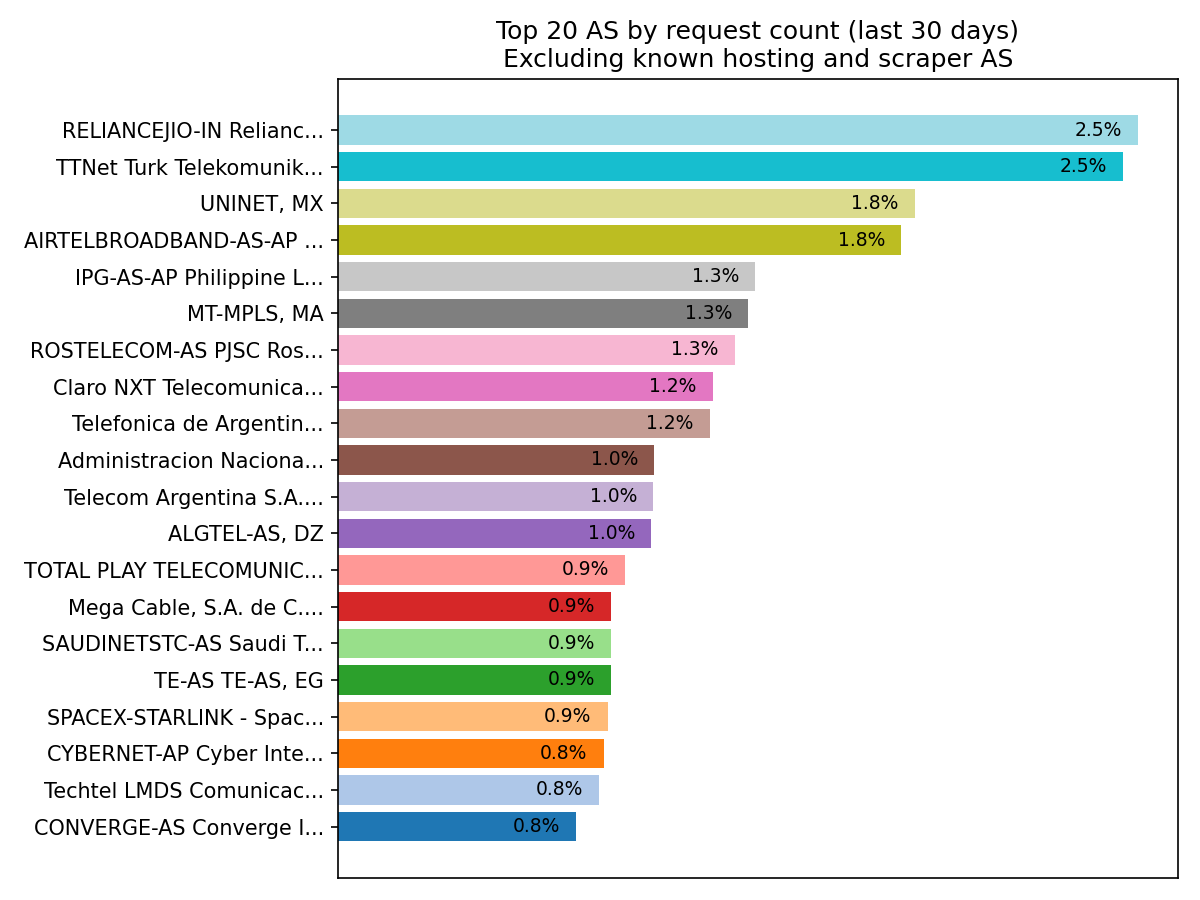
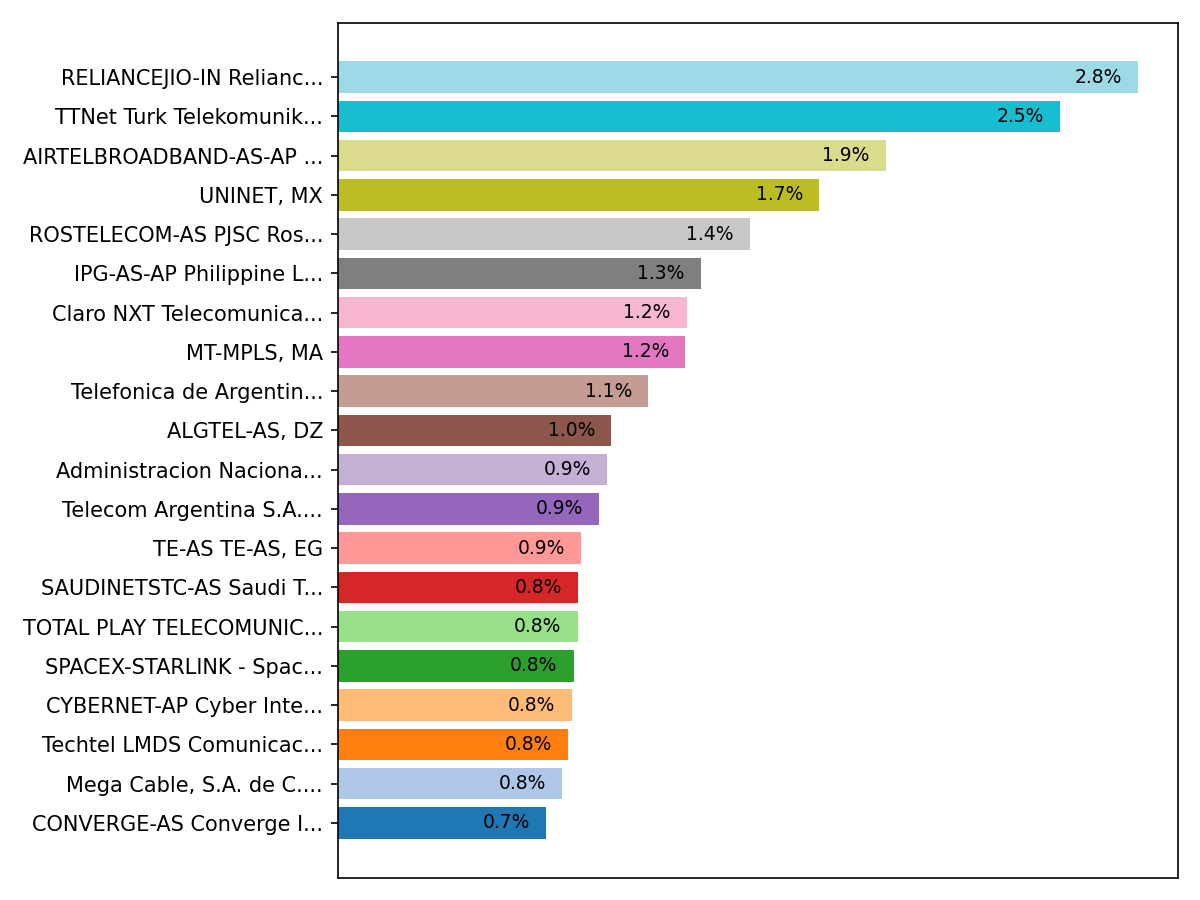
Remove titles from graphs

diff --git a/README.md b/README.md
@@ -72,8 +72,17 @@ Thus, this one will keep it a secret. ❤
 
 ## Residential IP statistics
 
-![Bot requests per AS](asn_plot.png)
+These statistics are calculated for the last 30 days, and they exclude all
+known hosting and scraping AS.
 
-![Bot requests per country](country_plot.png)
+### Per AS
 
-![Total request per day](daily_requests.png)
+![Requests per AS](asn_plot.png)
+
+### Per country
+
+![Requests per country](country_plot.png)
+
+### Requests per day
+
+![Request per day](daily_requests.png)
